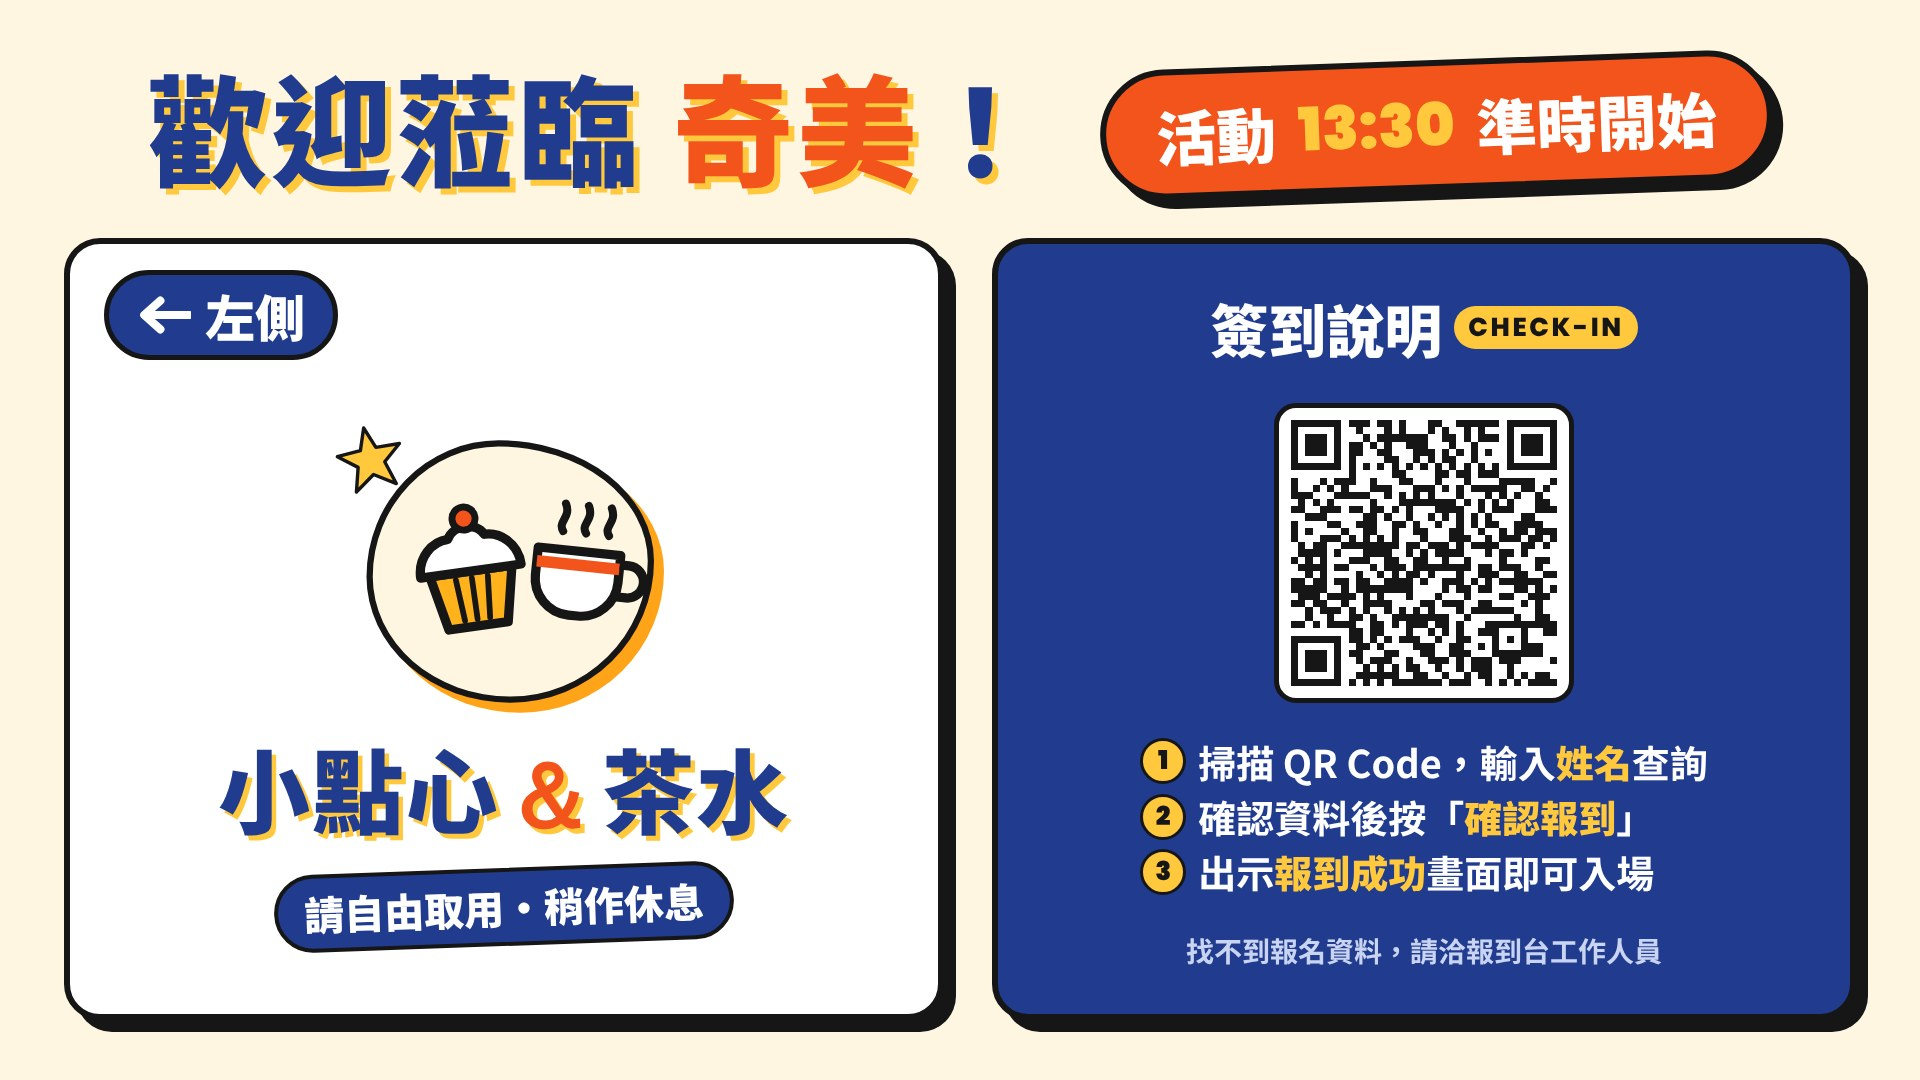
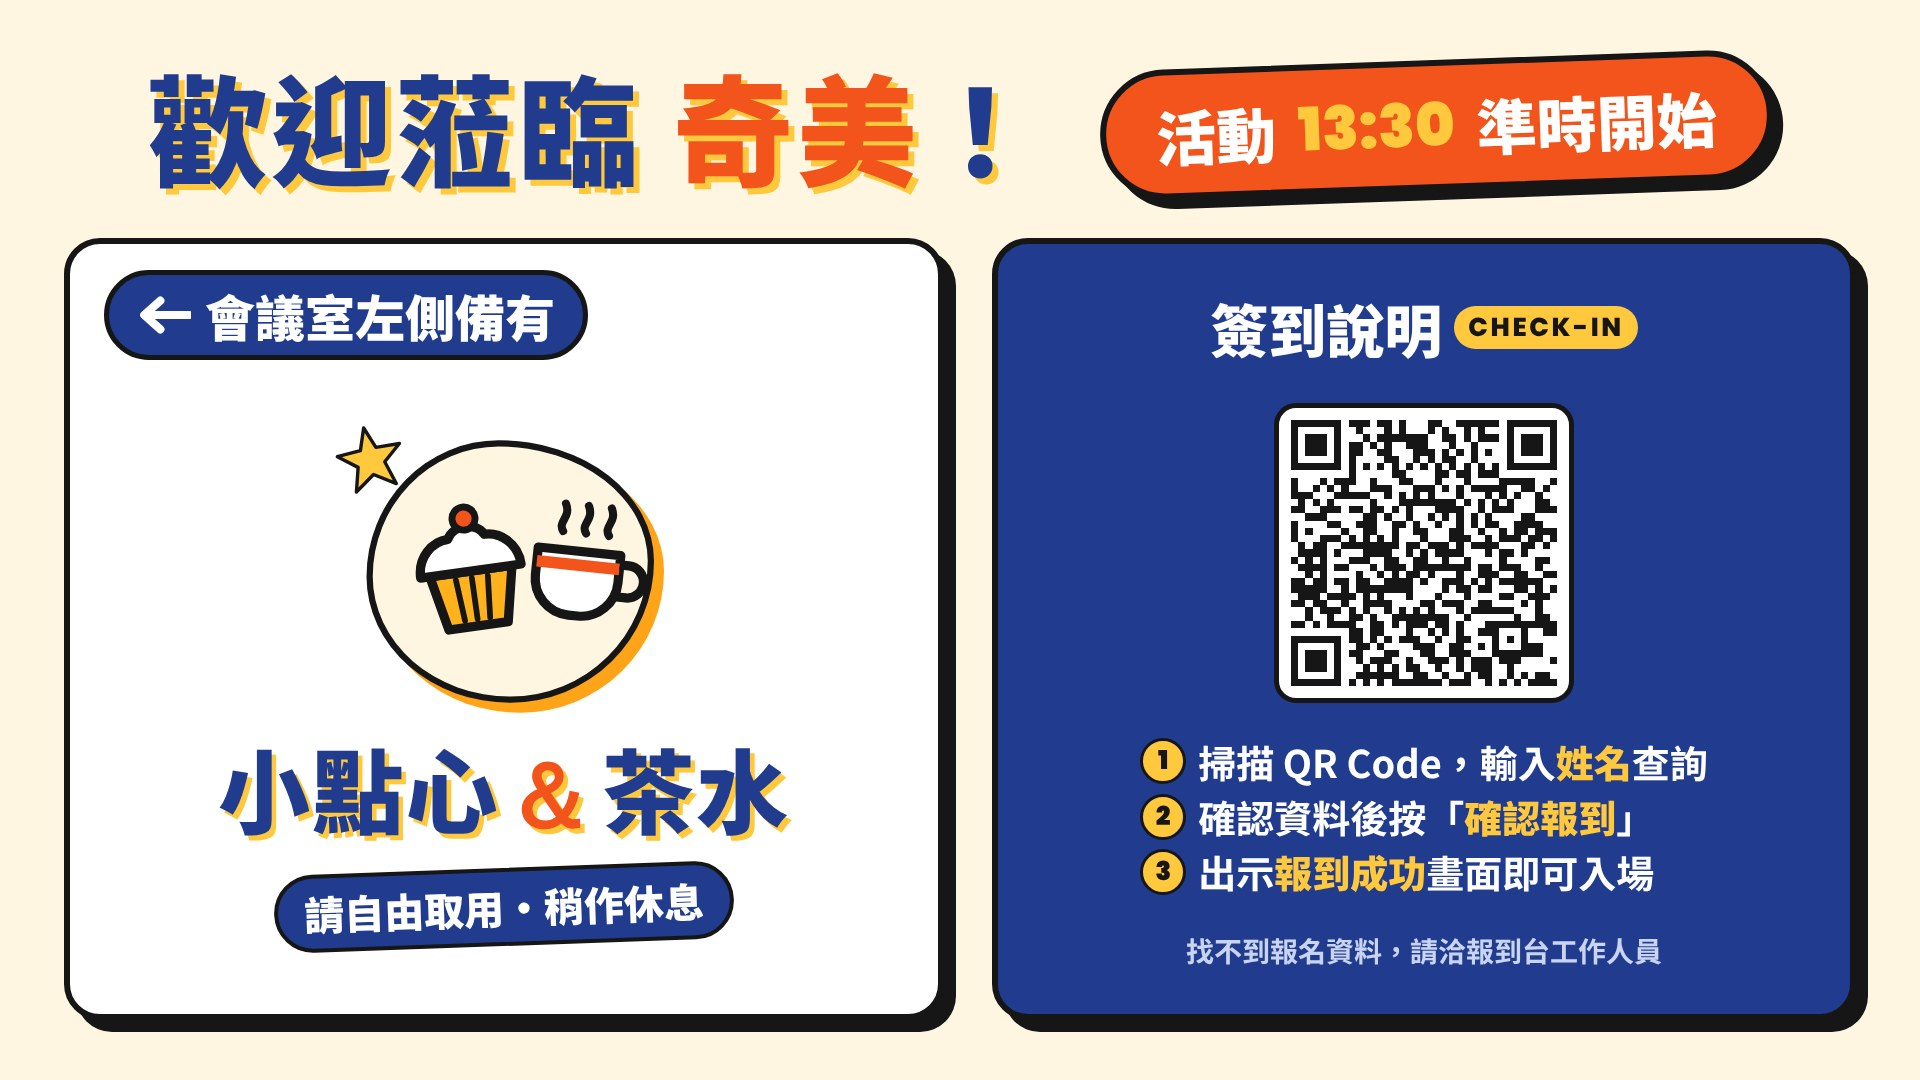
歌詞播放頁：告示框加「請注意看中間告示」標籤與閃動外框、放大告示；第 1 張改為「會議室左側備有」
Claude-Session: https://claude.ai/code/session_01HH3Uic7B7GKvdUspcu4Pwt

Changed region(s): [[0.0938, 0.2444, 0.3125, 0.3361]]

diff --git a/cmh_musiccc/index.html b/cmh_musiccc/index.html
@@ -57,7 +57,12 @@ svg{display:block}
 .song-tag .note{color:var(--yellow);font-size:1.2em;animation:hop 1.2s ease-in-out infinite}
 
 /* 16:9 照片框 */
-.frame-wrap{position:relative;width:min(84vw,calc((100vh - clamp(210px,38vh,420px)) * 16 / 9));margin-top:clamp(30px,5vh,56px)}
+.frame-wrap{position:relative;width:min(88vw,calc((100vh - clamp(200px,32vh,360px)) * 16 / 9));margin-top:clamp(34px,5.5vh,60px)}
+.frame-wrap::before{content:"";position:absolute;inset:clamp(-12px,-1vw,-8px);border-radius:clamp(22px,2.2vw,34px);border:clamp(3px,.3vw,5px) dashed var(--orange);animation:noticeRing 2.4s ease-in-out infinite;pointer-events:none}
+.notice{position:absolute;z-index:3;top:clamp(-26px,-2.4vh,-18px);left:50%;transform:translateX(-50%) rotate(-2deg);display:flex;align-items:center;gap:.5em;white-space:nowrap;
+  background:var(--red);color:#fff;border:3px solid var(--ink);box-shadow:4px 4px 0 var(--ink);border-radius:999px;padding:4px 20px 4px 12px;font-weight:900;font-size:clamp(.9rem,1.5vw,1.35rem);animation:noticeBob 1.6s ease-in-out infinite}
+.notice .ic{display:grid;place-items:center;width:1.6em;height:1.6em;border-radius:50%;background:var(--yellow);border:2px solid var(--ink);font-size:.9em}
+.notice small{font-family:var(--font-en);font-weight:800;color:var(--yellow);font-size:.75em;letter-spacing:.08em}
 .frame{position:relative;aspect-ratio:16/9;border:clamp(3px,.35vw,5px) solid var(--ink);border-radius:clamp(14px,1.6vw,26px);overflow:hidden;background:var(--band);
   box-shadow:clamp(6px,.7vw,12px) clamp(6px,.7vw,12px) 0 var(--ink);transform:rotate(-.6deg)}
 .frame .slot{position:absolute;inset:0;opacity:0;transition:opacity .8s ease}
@@ -73,18 +78,18 @@ svg{display:block}
   padding:4px 16px;font-family:var(--font-en);font-weight:900;letter-spacing:.06em;font-size:clamp(.8rem,1.3vw,1.15rem);transform:rotate(-6deg) scale(calc(1 + var(--pulse)*.12));transition:transform .12s}
 
 /* 歌詞 */
-.lyrics{position:relative;width:min(94vw,1500px);height:clamp(120px,25vh,280px);text-align:center}
+.lyrics{position:relative;width:min(94vw,1500px);height:clamp(100px,19vh,220px);text-align:center}
 .line{position:absolute;left:0;right:0;top:0;display:flex;flex-direction:column;align-items:center;gap:clamp(4px,1vh,12px);transition:opacity .45s ease,transform .55s cubic-bezier(.2,.9,.3,1.2)}
 .line.out{opacity:0;transform:translateY(-28px) scale(.96)}
 .line.pre{opacity:0;transform:translateY(30px) scale(.96);transition:none}
-.cur{font-weight:900;line-height:1.3;letter-spacing:.06em;font-size:min(4.3vw,7vh);color:#C5CCE2;max-width:100%}
+.cur{font-weight:900;line-height:1.3;letter-spacing:.06em;font-size:min(3.6vw,5.6vh);color:#C5CCE2;max-width:100%}
 .cur .c{transition:color .18s ease,text-shadow .18s ease;display:inline-block}
 .cur .c.on{color:var(--navy);text-shadow:.05em .05em 0 var(--yellow)}
 .cur .c.hl{color:#F7B9A2}
 .cur .c.hl.on{color:var(--red);text-shadow:.05em .05em 0 var(--yellow)}
 .cur .sp{display:inline-block;width:.6em}
-.cur.big{font-size:min(6vw,10vh)}
-.nxt{font-weight:700;letter-spacing:.06em;color:var(--muted);font-size:min(2vw,3.3vh)}
+.cur.big{font-size:min(4.6vw,7.4vh)}
+.nxt{font-weight:700;letter-spacing:.06em;color:var(--muted);font-size:min(1.7vw,2.7vh)}
 .nxt::before{content:"▸ ";color:var(--orange)}
 .nxt:empty::before{content:""}
 .title-card .cur{color:var(--navy);text-shadow:.05em .05em 0 var(--yellow)}
@@ -135,6 +140,8 @@ body.idle .picker{opacity:0;transform:translateY(20px);pointer-events:none}
 @keyframes morph{0%,100%{transform:scale(1) rotate(0)}50%{transform:scale(1.05) rotate(3deg)}}
 @keyframes sway{0%,100%{transform:translateY(0)}50%{transform:translateY(6px)}}
 @keyframes bob{0%,100%{transform:translateY(0) rotate(-4deg)}50%{transform:translateY(-12px) rotate(4deg)}}
+@keyframes noticeRing{0%,100%{opacity:.35;transform:scale(1)}50%{opacity:1;transform:scale(1.008)}}
+@keyframes noticeBob{0%,100%{transform:translateX(-50%) rotate(-2deg)}50%{transform:translateX(-50%) rotate(-2deg) translateY(-4px)}}
 @keyframes hop{0%,100%{transform:translateY(0)}40%{transform:translateY(-6px)}60%{transform:translateY(0)}}
 @media (prefers-reduced-motion:reduce){*{animation:none!important;transition:none!important}}
 </style>
@@ -176,6 +183,7 @@ body.idle .picker{opacity:0;transform:translateY(20px);pointer-events:none}
   </div>
 
   <div class="frame-wrap">
+    <div class="notice"><span class="ic">📢</span>請注意看中間告示<small>NOTICE</small></div>
     <div class="frame" id="frame">
     </div>
     <div class="chimei-badge">CHIMEI PGY</div>

diff --git a/cmh_musiccc/photos/slides.html b/cmh_musiccc/photos/slides.html
@@ -141,7 +141,7 @@ h1 b{font-family:Poppins;font-weight:900}
   </div>
   <div class="s1-row">
     <div class="side snack">
-      <h3><svg><use href="#arL"/></svg>左側</h3>
+      <h3><svg><use href="#arL"/></svg>會議室左側備有</h3>
       <div class="snack-body">
         <div class="snack-ill">
           <svg class="ill-cake" viewBox="0 0 64 64"><path d="M14 34h36l-5 24H19z" fill="#FFB21C" stroke="#161616" stroke-width="4" stroke-linejoin="round"/><path d="M25 37l1.5 18M32 37v18M39 37l-1.5 18" stroke="#161616" stroke-width="2.5" stroke-linecap="round"/><path d="M10 34c0-9 7-15 14-15 3-6 13-6 16 0 7 0 14 6 14 15z" fill="#fff" stroke="#161616" stroke-width="4" stroke-linejoin="round"/><circle cx="32" cy="11" r="5" fill="#F2541B" stroke="#161616" stroke-width="3"/></svg>
